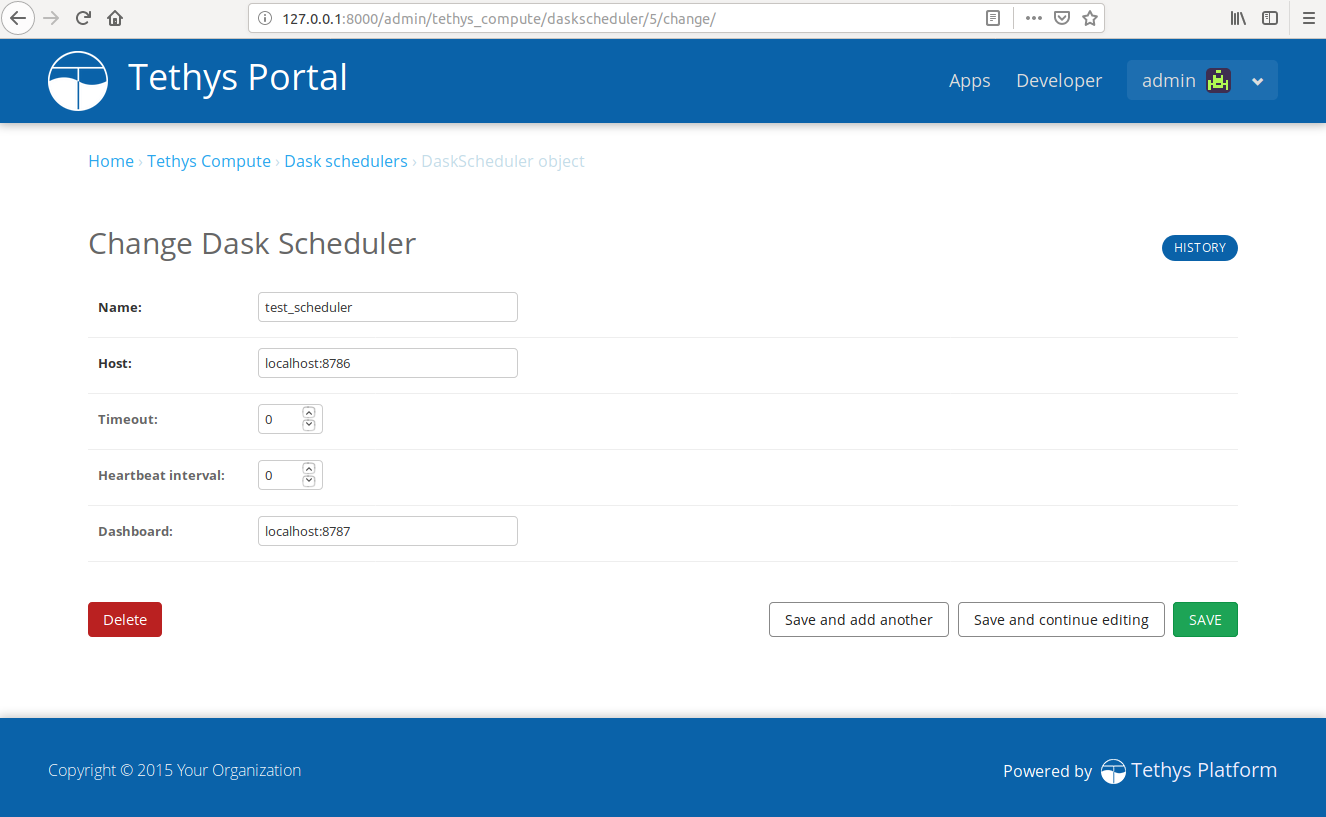
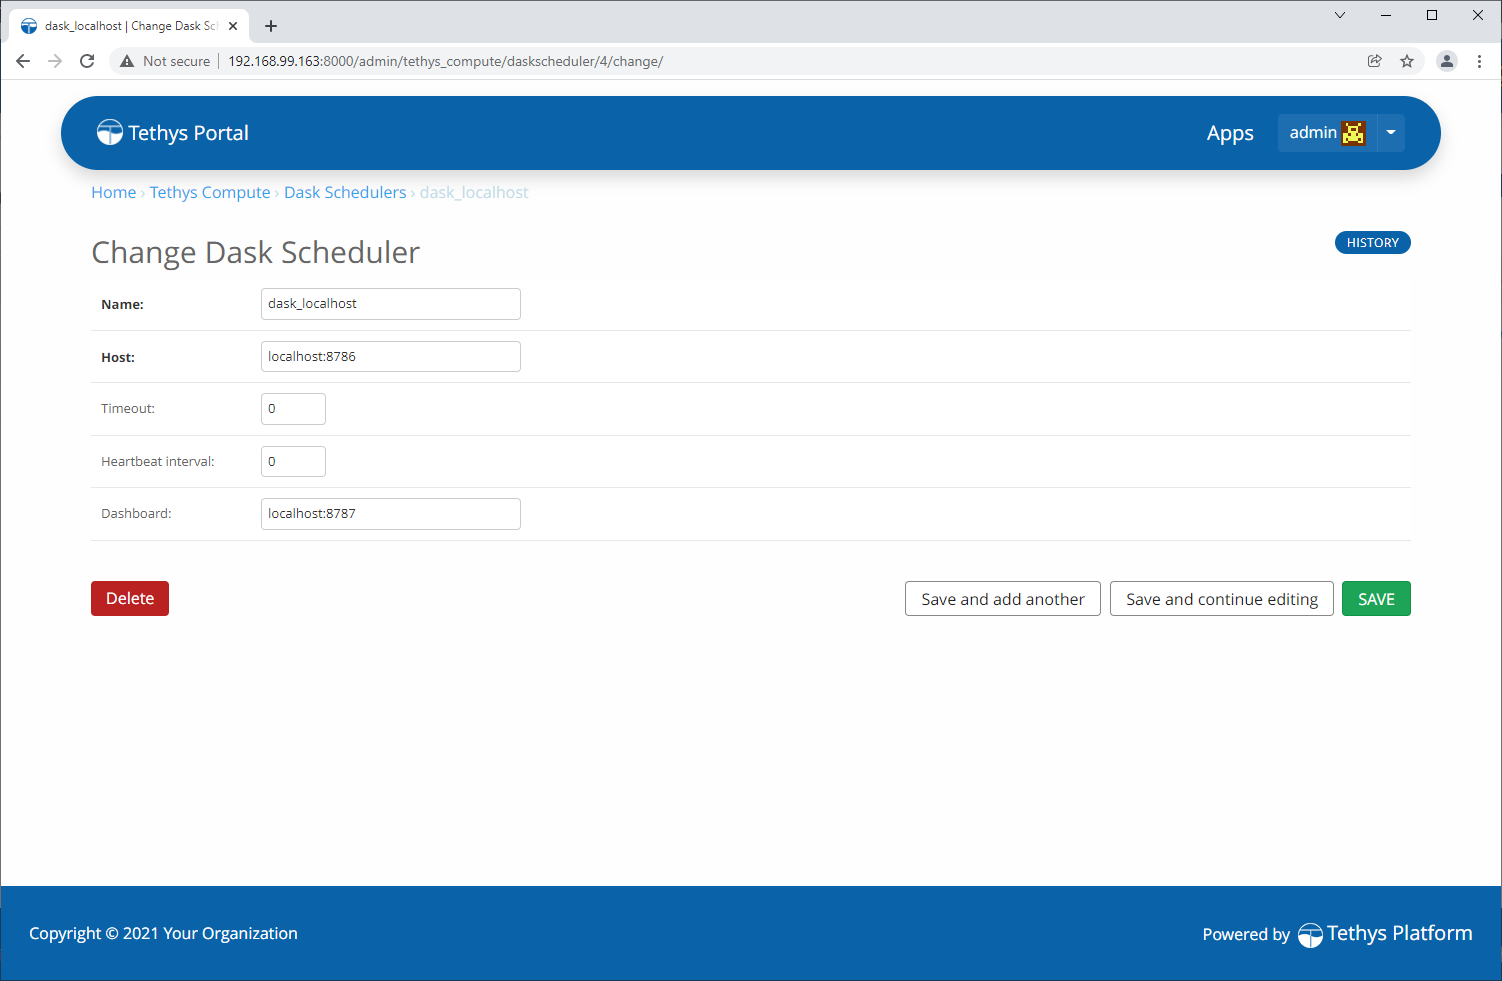
Updated Dask tutorial Removed the Compute API documentation, merging Scheduler portions with Jobs API.

diff --git a/docs/tutorials/dask/setup_scheduler.rst b/docs/tutorials/dask/setup_scheduler.rst
@@ -2,27 +2,28 @@
 Setup Scheduler
 ***************
 
-**Last Updated:** November 2019
+**Last Updated:** January 2022
 
 1. Start Scheduler
 ==================
 
-Open up a new terminal and make sure the tethys environment is activated (start it we the command ``t`` if not). To start the Dask scheduler run:
+Open up a new terminal and make sure the tethys environment is activated. To start a Dask scheduler with the Tethys Dask Scheduler plugin active run:
 
 
 .. code-block:: bash
 
-    tethys-dask-scheduler --tethys-host <tethys-host>
+    dask-scheduler --preload tethys_dask_scheduler.plugin --tethys-host <tethys-host>
 
 ``<tethys-host>`` is the host of the Tethys server you'd like to link this scheduler with (i.e.: ``http://localhost:8000``).
 
 
 .. figure:: ../../images/tutorial/Setup_scheduler--run_tethys_dask.png
+    :width: 1000px
     :align: center
 
 .. tip::
 
-    Do not leave out the protocol when specifying ''tethys_host'' address.
+    Do not leave out the protocol (http/https) when specifying ''tethys_host'' address.
 
 2. Start Worker
 ===============
@@ -36,6 +37,7 @@ Open up a new terminal and make sure the tethys environment is activated. To sta
 ``<scheduler-host>`` should be the same as the ``scheduler-at`` field from the previous command (e.g.: ``tcp://192.168.1.17:8786``).
 
 .. figure:: ../../images/tutorial/Setup_scheduler--run_worker.png
+    :width: 1000px
     :align: center
 
 3. Log in to Tethys
@@ -63,10 +65,7 @@ Scroll down to the **Tethys Computing** sub group and select **Dask Scheduler** 
 
 6. Add a New Dask Scheduler
 ===========================
-Select the **Add Dask Scheduler** button. Fill out the following form to create a new scheduler. Use the name ``test_scheduler`` for this tutorial. For host and port see the scheduler terminal. Use the ``scheduler at`` value (e.g.: 192.168.1.17:8786) for the **Host** field. Use the ``bokeh at`` port with the scheduler at host (e.g.: 192.168.1.17:8787) for **Dashboard** field, using the same host as the scheduler. Select ``Save`` once done.
-
-.. figure:: ../../images/tutorial/SchedulerCommand.png
-    :align: center
+Select the **Add Dask Scheduler** button. Fill out the following form to create a new scheduler. Use the name ``dask_localhost`` for this tutorial. For host and port see the scheduler terminal. Use the ``scheduler at`` value (e.g.: 192.168.1.17:8786) for the **Host** field. Use the ``bokeh at`` port with the scheduler at host (e.g.: 192.168.1.17:8787) for **Dashboard** field, using the same host as the scheduler. Select ``Save`` once done.
 
 .. figure:: ../../images/tutorial/NewCreateDaskScheduler.png
     :width: 900px
@@ -81,5 +80,65 @@ Select the **Add Dask Scheduler** button. Fill out the following form to create 
 Select the **Launch Dashboard** link to the right of your newly created dashboard to visit your embedded Dashboard. It should look like this.
 
 .. figure:: ../../images/tutorial/NewDaskSchedulerPage.png
+    :width: 900px
+    :align: center
+
+8. Create Scheduler Setting
+===========================
+
+Add the ``scheduler_settings()`` method to the app class. Return a single ``SchedulerSetting`` object in a tuple as shown below. Set the name to ``dask_primary`` and engine to ``DASK``:
+
+.. code-block::
+
+    from tethys_sdk.base import TethysAppBase, url_map_maker
+    from tethys_sdk.app_settings import SchedulerSetting
+
+
+    class DaskTutorial(TethysAppBase):
+        """
+        Tethys app class for Dask Tutorial.
+        """
+
+        ...
+
+        def scheduler_settings(self):
+            scheduler_settings = (
+                SchedulerSetting(
+                    name='dask_primary',
+                    description='Scheduler for a Dask distributed cluster.',
+                    engine=SchedulerSetting.DASK,
+                    required=True
+                ),
+            )
+
+            return scheduler_settings
+
+.. tip::
+
+    You may need to uninstall the app and reinstall it for the new scheduler setting to be loaded properly:
+
+    .. code-block::
+
+        tethys uninstall dask_tutorial
+        tethys install -d
+
+9. Assign Scheduler to App Setting
+==================================
+
+a. After reloading the app, login to the Tethys Portal as an admin user.
+
+b. Navigate to the Site Admin page as described in Step 4.
+
+c. Locate the **TETHYS APPS** section and click on the **Installed Apps** link.
+
+d. Select the **Dask Tutorial** link from the list of installed apps.
+
+e. Scroll down to the **SCHEDULER SETTINGS** section and locate the row with the setting named ``dask_primary``.
+
+f. Use the dropdown in the **SCHEDULER SERVICE** column to select the ``dask_localhost`` scheduler that you configured in step 6.
+
+g. Press the ``SAVE`` button to save the changes.
+
+.. figure:: ../../images/tutorial/DaskAppSettings.png
     :width: 900px
     :align: center

diff --git a/docs/software_suite.rst b/docs/software_suite.rst
@@ -98,9 +98,9 @@ Distributed Computing
    :width: 300px
    :align: right
 
-To facilitate the large-scale computing that is often required by water resources applications, Tethys Platform leverages the computing management middleware `HTCondor <http://research.cs.wisc.edu/htcondor/>`_. HTCondor is both a resource management and a job scheduling software.
+To facilitate the large-scale computing that is often required by water resources applications, Tethys Platform leverages the computing management middleware `HTCondor <http://research.cs.wisc.edu/htcondor/>`_ and `Dask Distributed <http://distributed.dask.org/en/stable/>`_.
 
-To use the HTCondor and the computing capabilities in your app use the :doc:`./tethys_sdk/jobs` and the :doc:`./tethys_sdk/compute`.
+To use the HTCondor or Dask and the computing capabilities in your app use the :doc:`./tethys_sdk/jobs`.
 
 File Dataset Storage
 ====================
@@ -174,8 +174,7 @@ GeoServer                              :doc:`./tethys_sdk/tethys_services/spatia
 THREDDS Data Server                    :doc:`./tethys_sdk/tethys_services/spatial_dataset_services`     Spatial File Publishing
 52° North WPS                          :doc:`./tethys_sdk/tethys_services/web_processing_services`      Geoprocessing Services
 OpenLayers, Google Maps, HighCharts    :doc:`./tethys_sdk/gizmos`                                       Spatial and Tabular Visualization
-HTCondor                               :doc:`./tethys_sdk/compute` and                                  Computing and Job Management
-                                       :doc:`./tethys_sdk/jobs`
+HTCondor, Dask                         :doc:`./tethys_sdk/jobs`
 CKAN, HydroShare                       :doc:`./tethys_sdk/tethys_services/dataset_services`             Flat File Storage
 =====================================  ===============================================================  ============================================
 

diff --git a/docs/tutorials/dask/multiple_leaf_job.rst b/docs/tutorials/dask/multiple_leaf_job.rst
@@ -2,7 +2,7 @@
 Multiple Leaf Job
 *****************
 
-**Last Updated:** November 2019
+**Last Updated:** January 2022
 
 This section will illustrate how to use the ``dask.distributed`` API with a dask job that ends in multiple leafs. The recommended approach is to create a new ``DaskJob`` for each leaf and track them as though they were separate jobs. A similar approach can be followed using the ``dask.delayed`` API.
 
@@ -42,7 +42,6 @@ Modify the ``home`` controller in the :file:`controller.py` module, adding a but
     from django.http.response import HttpResponseRedirect
     from django.contrib import messages
     from tethys_sdk.gizmos import Button
-    from tethys_sdk.compute import get_scheduler
     from tethys_sdk.gizmos import JobsTable
     from tethys_compute.models.dask.dask_job_exception import DaskJobException
     from tethysapp.dask_tutorial.app import DaskTutorial as app
@@ -115,8 +114,8 @@ Modify the ``home`` controller in the :file:`controller.py` module, adding a but
         """
         Controller for the app home page.
         """
-        # Get test_scheduler app. This scheduler needs to be in the database.
-        scheduler = get_scheduler(name='test_scheduler')
+        # Get scheduler from dask_primary setting.
+        scheduler = app.get_scheduler(name='dask_primary')
 
         if job_type.lower() == 'delayed':
             from tethysapp.dask_tutorial.job_functions import delayed_job

diff --git a/docs/features.rst b/docs/features.rst
@@ -79,7 +79,7 @@ The portal also includes landing page that can be used to showcase the capabilit
 Computing
 =========
 
-Tethys Platform includes Python modules that allow you to provision and run computing jobs in distributed computing environments. With CondorPy you can define your computing jobs and submit them to distributed computing environments provided by `HTCondor <http://research.cs.wisc.edu/htcondor/>`_.
+Tethys Platform includes Python modules that allow you to run computing jobs in distributed computing environments. With CondorPy you can define your computing jobs and submit them to distributed computing environments using `HTCondor <http://research.cs.wisc.edu/htcondor/>`_ or `Dask Distributed <http://distributed.dask.org/en/stable/>`_.
 
 .. figure:: images/features/computing_condorpy.png
     :width: 400px
@@ -91,7 +91,7 @@ HTCondor provides a way to make use of the idle computing power that is already 
 
 .. note::
 
-    To learn more, read the :doc:`./tethys_sdk/jobs` and the :doc:`./tethys_sdk/compute`.
+    To learn more, read the :doc:`./tethys_sdk/jobs`.
 
 
 Acknowledgements

diff --git a/docs/tutorials/dask/dask_delayed.rst b/docs/tutorials/dask/dask_delayed.rst
@@ -2,7 +2,7 @@
 Dask Delayed
 ************
 
-**Last Updated:** November 2019
+**Last Updated:** January 2022
 
 The ``DaskJob`` can be used with either the ``dask.delayed`` or ``dask.distributed`` APIs. The next three sections will illustrate how to use each Dask API with TethysJobs. This section will illustrate how to use the ``dask.delayed`` API with ``DaskJob`` in Tethys.
 
@@ -138,8 +138,8 @@ Add the ``run_job`` controller to the :file:`controller.py` module as well:
         """
         Controller for the app home page.
         """
-        # Get test_scheduler app. This scheduler needs to be in the database.
-        scheduler = get_scheduler(name='test_scheduler')
+        # Get scheduler from dask_primary setting.
+        scheduler = app.get_scheduler(name='dask_primary')
 
         if job_type.lower() == 'delayed':
             from tethysapp.dask_tutorial.job_functions import delayed_job

diff --git a/docs/tutorials/dask/dask_distributed.rst b/docs/tutorials/dask/dask_distributed.rst
@@ -2,7 +2,7 @@
 Dask Distributed
 ****************
 
-**Last Updated:** November 2019
+**Last Updated:** January 2022
 
 This section will illustrate how to use the ``dask.distributed`` API with ``DaskJob`` in Tethys. This example also illustrates how to use a custom process results function.
 
@@ -91,8 +91,8 @@ Additionally update the ``run_job`` controller in :file:`controller.py` to look 
         """
         Controller for the app home page.
         """
-        # Get test_scheduler app. This scheduler needs to be in the database.
-        scheduler = get_scheduler(name='test_scheduler')
+        # Get scheduler from dask_primary setting.
+        scheduler = app.get_scheduler(name='dask_primary')
 
         if job_type.lower() == 'delayed':
             from tethysapp.dask_tutorial.job_functions import delayed_job

diff --git a/docs/tutorials/dask/setup_views.rst b/docs/tutorials/dask/setup_views.rst
@@ -118,7 +118,6 @@ Add the jobs button to the ``home`` controller in :file:`controller.py` module s
     from django.http.response import HttpResponseRedirect
     from django.contrib import messages
     from tethys_sdk.gizmos import Button
-    from tethys_sdk.compute import get_scheduler
     from tethys_sdk.gizmos import JobsTable
     from tethys_compute.models.dask.dask_job_exception import DaskJobException
     from tethysapp.dask_tutorial.app import DaskTutorial as app

diff --git a/docs/tethys_portal/admin_pages.rst b/docs/tethys_portal/admin_pages.rst
@@ -202,7 +202,7 @@ The links under the ``TETHYS COMPUTE`` heading can be used to manage ``Jobs`` an
 
 .. tip::
 
-    For more information on Tethys Jobs see the :doc:`../tethys_sdk/jobs` and :doc:`../tethys_sdk/compute` documentation.
+    For more information on Tethys Jobs see the :doc:`../tethys_sdk/jobs` documentation.
 
 Tethys Portal
 =============

diff --git a/docs/tethys_sdk/app_settings.rst b/docs/tethys_sdk/app_settings.rst
@@ -120,7 +120,7 @@ To retrieve a scheduler, import your :term:`app class` and call the ``get_schedu
 
 .. tip::
 
-    See the :ref:`compute_api` documentation for more details on how to use Schedulers in your apps.
+    See the :ref:`jobs_api` documentation for more details on how to use Schedulers in your apps.
 
 
 API Documentation

diff --git a/docs/tethys_sdk.rst b/docs/tethys_sdk.rst
@@ -12,7 +12,6 @@ The Tethys Platform provides a Python Software Development Kit (SDK) to make it 
    tethys_sdk/app_class
    tethys_sdk/templating
    tethys_sdk/app_settings
-   tethys_sdk/compute
    tethys_sdk/handoff
    tethys_sdk/jobs
    tethys_sdk/permissions

diff --git a/docs/tethys_sdk/jobs.rst b/docs/tethys_sdk/jobs.rst
@@ -1,3 +1,5 @@
+.. _jobs_api:
+
 ********
 Jobs API
 ********
